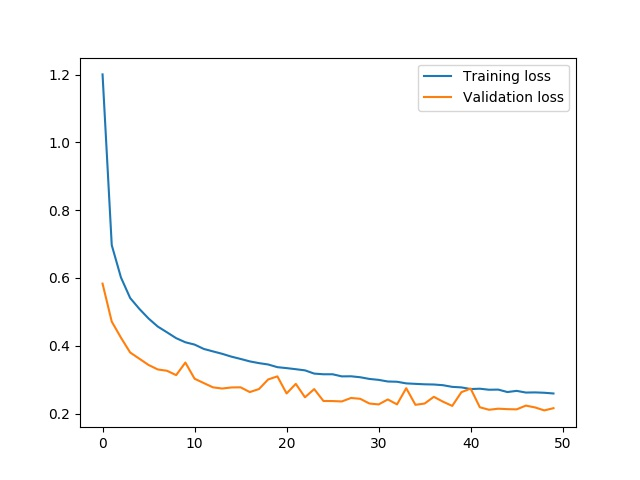
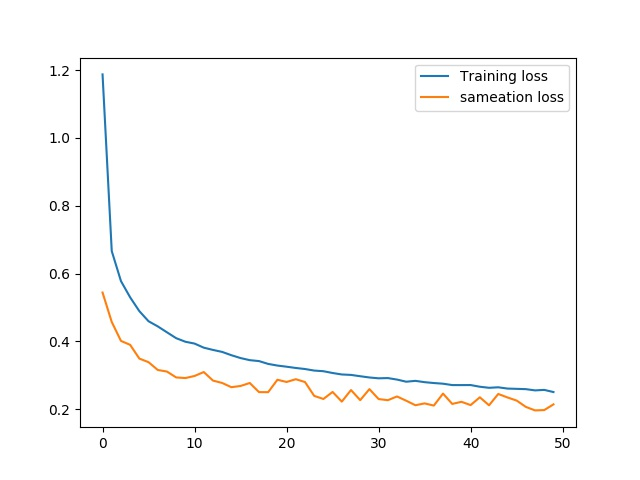
added fcn analysis

diff --git a/train_dense.py b/train_dense.py
@@ -1,6 +1,7 @@
 import keras
 from keras.models import Sequential,load_model,save_model
 from keras.layers import Dense,Activation,Flatten,Dropout
+from keras.layers import Reshape
 from keras.layers import Conv2D,MaxPool2D
 from keras.layers import BatchNormalization
 from keras.optimizers import Adam,SGD,rmsprop
@@ -13,9 +14,9 @@ import numpy as np
 num_epochs = 50
 batch_size = 1024
 num_classes = 10
-img_width,img_height = 28,28
 model_prefix = ''
-inp_shape = (img_width,img_height,1)
+inp_shape = (784,)
+img_width,img_height = 28,28
 
 def load_data():
 	data = np.load('data/data.npz')
@@ -32,96 +33,59 @@ def load_data():
 
 	return (trainX,trainY),(testX,testY)
 
-def CNN_bare():
-	# 89.39
+def FCN():
+	# 89.71
 	global model_prefix
-	model_prefix = 'CNN_bare'
+	model_prefix = 'FCN'
 
 	model = Sequential()
-
-	model.add(Conv2D(32, (3, 3), padding='same', activation='relu', input_shape=inp_shape))
-	model.add(MaxPool2D(pool_size=(2, 2)))
-	model.add(Dropout(0.25))
-
-	model.add(Conv2D(64, (3, 3), padding='same', activation='relu'))
-	model.add(MaxPool2D(pool_size=(2, 2)))
-	model.add(Dropout(0.25))
-
-	model.add(Flatten())
-	model.add(Dense(128, activation='relu'))
-	model.add(Dropout(0.25))
-	model.add(Dense(64, activation='relu'))
-	model.add(Dropout(0.5))
+	model.add(Reshape((784,),input_shape=(img_width,img_height,1)))
+	model.add(Dense(1024,activation='relu'))
+	model.add(Dense(1024,activation='relu'))
+	model.add(Dense(1024,activation='relu'))
 	model.add(Dense(num_classes, activation='softmax'))
 
 	return model
 
-def CNN():
-	# 88.56
+def FCN_with_Dropout():
+	# 89.84
 	global model_prefix
-	model_prefix = 'CNN'
+	model_prefix = 'FCN_with_Dropout'
 
 	model = Sequential()
-
-	model.add(Conv2D(32, (3, 3), padding='same', activation='relu', input_shape=inp_shape))
-	model.add(MaxPool2D(pool_size=(2, 2)))
+	model.add(Reshape((784,),input_shape=(img_width,img_height,1)))
+	model.add(Dense(1024,activation='relu'))
 	model.add(Dropout(0.25))
-
-	model.add(Conv2D(64, (3, 3), padding='same', activation='relu'))
-	model.add(MaxPool2D(pool_size=(2, 2)))
+	model.add(Dense(1024))
 	model.add(Dropout(0.25))
-
-	model.add(Conv2D(128, (3, 3), padding='same', activation='relu'))
-	model.add(MaxPool2D(pool_size=(2, 2)))
-	model.add(Dropout(0.25))
-
-	model.add(Flatten())
-	model.add(Dense(128, activation='relu'))
-	model.add(Dropout(0.25))
-	model.add(Dense(64, activation='relu'))
-	model.add(Dropout(0.5))
 	model.add(Dense(num_classes, activation='softmax'))
 
 	return model
 
-def CNN_with_BN():
-	# 92.75
+def Large_FCN():
+	# 90.07
 	global model_prefix
-	model_prefix = 'CNNBn'
+	model_prefix = 'Large_FCN'
 
 	model = Sequential()
-
-	model.add(Conv2D(32, (3, 3), padding='same', activation='relu', input_shape=inp_shape))
-	model.add(MaxPool2D(pool_size=(2, 2)))
-	model.add(BatchNormalization())
+	model.add(Reshape((784,),input_shape=(img_width,img_height,1)))
+	model.add(Dense(1024,activation='relu'))
 	model.add(Dropout(0.25))
-
-	model.add(Conv2D(64, (3, 3), padding='same', activation='relu'))
-	model.add(MaxPool2D(pool_size=(2, 2)))
-	model.add(BatchNormalization())
+	model.add(Dense(1024,activation='relu'))
 	model.add(Dropout(0.25))
-
-	model.add(Conv2D(128, (3, 3), padding='same', activation='relu'))
-	model.add(MaxPool2D(pool_size=(2, 2)))
-	model.add(BatchNormalization())
+	model.add(Dense(1024,activation='relu'))
 	model.add(Dropout(0.25))
-
-	model.add(Flatten())
-	model.add(Dense(128, activation='relu'))
-	model.add(BatchNormalization())
+	model.add(Dense(512,activation='relu'))
 	model.add(Dropout(0.25))
-
-	model.add(Dense(64, activation='relu'))
-	model.add(BatchNormalization())
-	model.add(Dropout(0.5))
-
+	model.add(Dense(128,activation='relu'))
+	model.add(Dropout(0.25))
 	model.add(Dense(num_classes, activation='softmax'))
 
 	return model
 
-model = CNN_bare()
-# model = CNN()
-# model = CNN_with_BN()
+# model = FCN()
+# model = FCN_with_Dropout()
+model = Large_FCN()
 
 model.summary()
 
@@ -167,5 +131,5 @@ from matplotlib import pyplot as plt
 plt.figure()
 plt.plot(hist.history['loss'])
 plt.plot(hist.history['val_loss'])
-plt.legend(['Training loss','sameation loss'])
+plt.legend(['Training loss','Validation loss'])
 plt.savefig(model_prefix+'.jpg')

diff --git a/data/convert_csv2np.py b/data/convert_csv2np.py
@@ -17,22 +17,6 @@ def save_zip():
 	(trainX,trainY),(testX,testY) = cvt_csv()
 	np.savez_compressed('data',trX=trainX,trY=trainY,teX=testX,teY=testY)
 
-def load_data():
-	data = np.load('data.npz')
-
-	trainX = data['trX']
-	trainY = data['trY']
-	testX = data['teX']
-	testY = data['teY']
-
-	print trainX.shape
-	print trainY.shape
-	print testX.shape
-	print testY.shape
-
-	return (trainX,trainY),(testX,testY)
-
 
 save_zip()
-
-(trainX,trainY),(testX,testY) = load_data()
+# (trainX,trainY),(testX,testY) = load_data()

diff --git a/load_data.py b/load_data.py
@@ -1,0 +1,16 @@
+import numpy as np
+
+
+def load_data():
+	data = np.load('data/data.npz')
+
+	trainX = data['trX']
+	trainY = data['trY']
+	testX = data['teX']
+	testY = data['teY']
+
+
+	trainX = trainX.reshape((-1,28,28,1))
+	testX = testX.reshape((-1,28,28,1))
+
+	return (trainX,trainY),(testX,testY)
